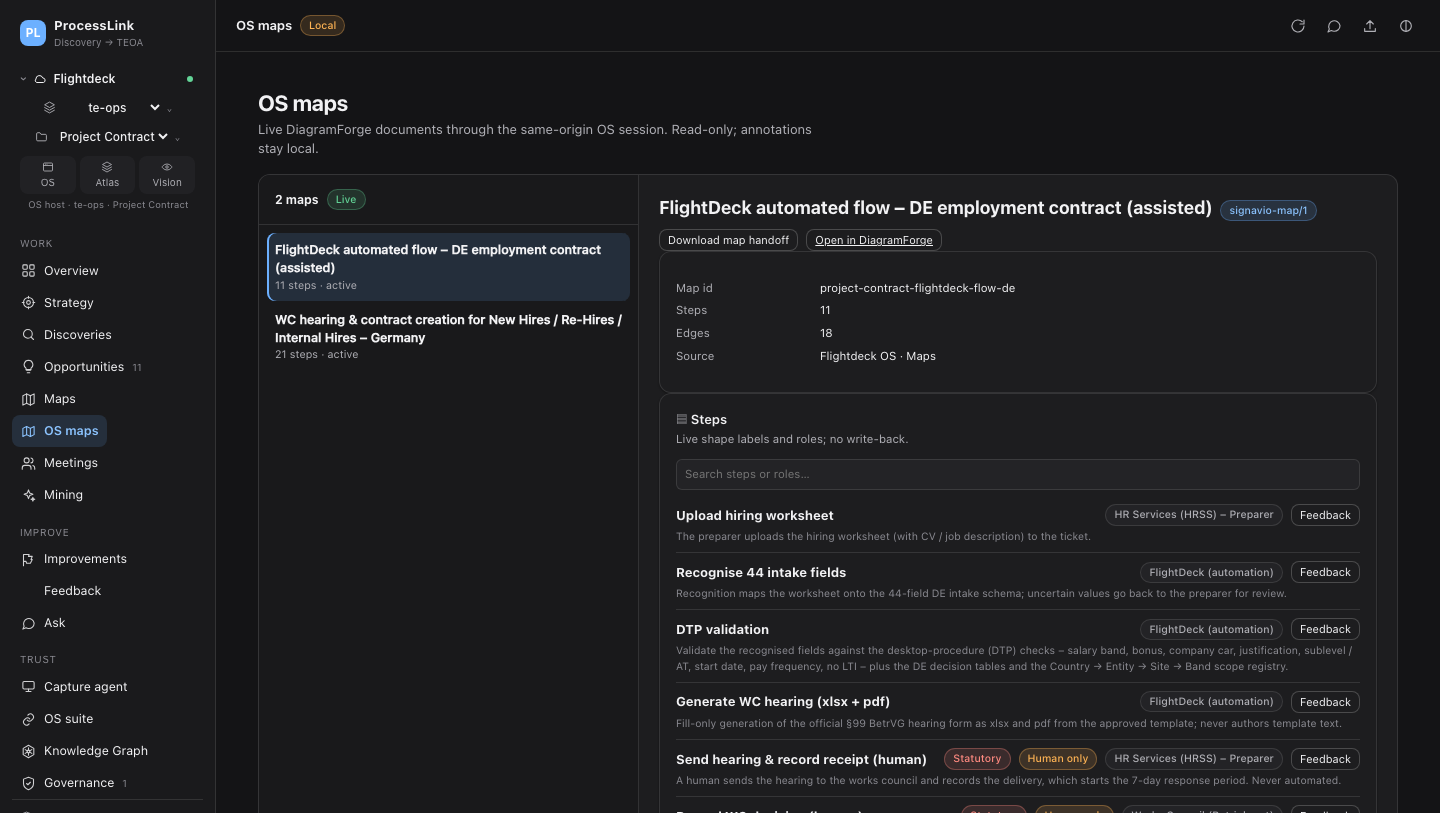
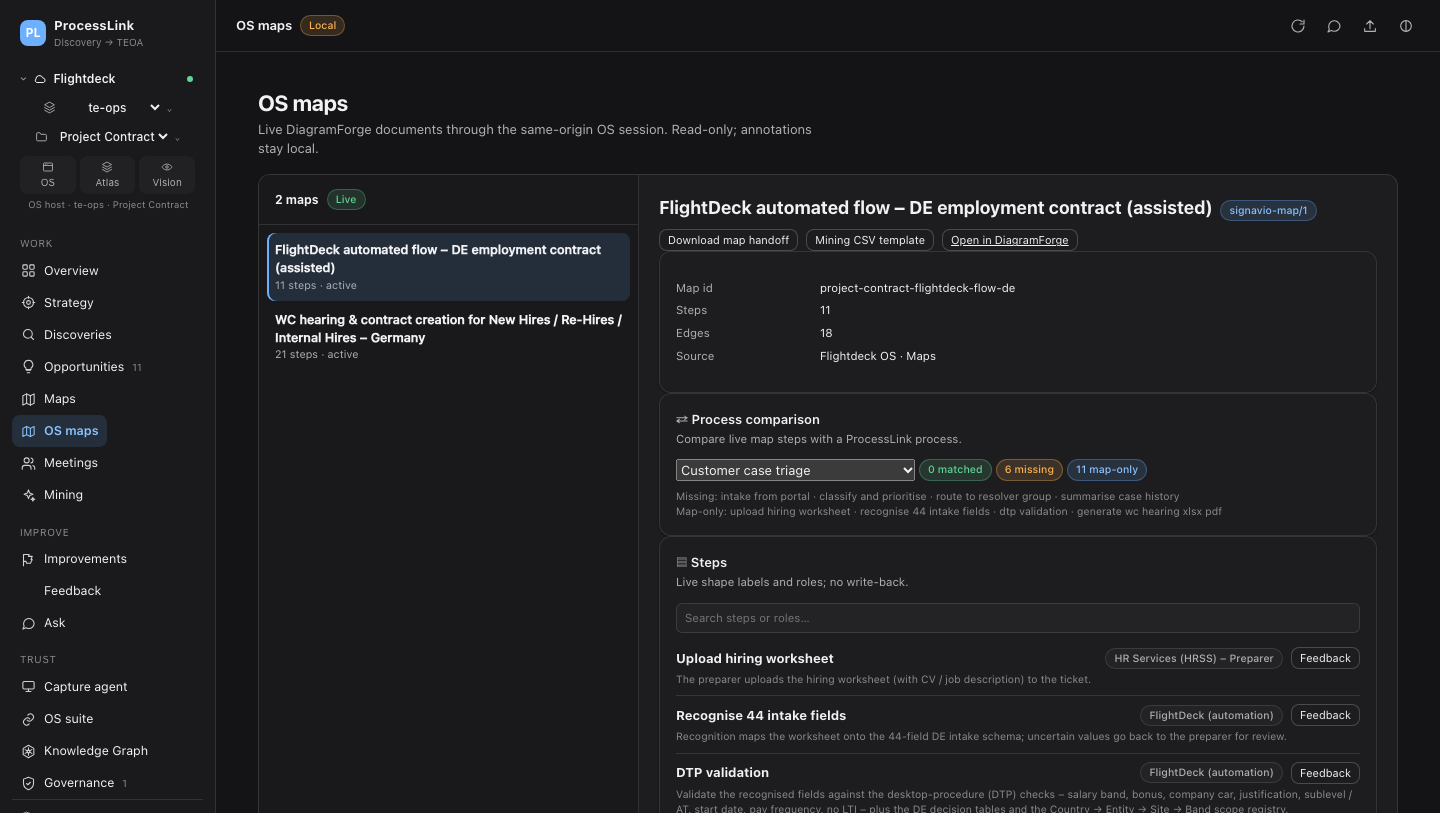
Add map/process comparison, DeckForge reads and mining template

Changed region(s): [[0.4688, 0.492, 0.9375, 1.0], [0.5625, 0.2768, 0.75, 0.3075], [0.9062, 0.6765, 0.9375, 0.7073]]

diff --git a/web/src/pages/OsMaps.tsx b/web/src/pages/OsMaps.tsx
@@ -1,5 +1,6 @@
 import { useEffect, useState } from 'react'
 import { Card, Chip, Empty, KV, PageHead } from '../components/ui'
+import { useApp } from '../App'
 import { FeedbackPanel } from '../components/FeedbackPanel'
 import { FeedbackButton } from '../components/FeedbackButton'
 import { osGet, type LiveMap } from '../domain/osBridge'
@@ -8,6 +9,8 @@ interface MapNode { id: string; type: string; label: string; data?: { role?: str
 interface MapDetail { schema: string; id: string; label: string; nodes: MapNode[]; edges: Array<{ id: string; source: string; target: string }> }
 
 export default function OsMaps() {
+  const { processes } = useApp()
+  const [processId, setProcessId] = useState('')
   const [maps, setMaps] = useState<LiveMap[] | null>(null)
   const [selected, setSelected] = useState('')
   const [detail, setDetail] = useState<MapDetail | null>(null)
@@ -29,6 +32,24 @@ export default function OsMaps() {
     })
   }, [selected])
 
+  const process = processes.find(item => item.id === processId) ?? processes[0]
+  const normalization = (value: string) => value.toLowerCase().replace(/[^a-z0-9]+/g, ' ').trim()
+  const mapLabels = (detail?.nodes.filter(node => node.type === 'step') ?? []).map(node => normalization(node.label))
+  const processLabels = (process?.steps ?? []).map(step => normalization(step.name))
+  const matched = processLabels.filter(label => mapLabels.some(mapLabel => mapLabel === label || mapLabel.includes(label) || label.includes(mapLabel)))
+  const missing = processLabels.filter(label => !matched.includes(label))
+  const extra = mapLabels.filter(label => !processLabels.some(processLabel => processLabel === label || processLabel.includes(label) || label.includes(processLabel)))
+  const downloadMiningCSV = () => {
+    if (!detail) return
+    const rows = [['case_id', 'activity', 'timestamp', 'resource', 'application']]
+    const base = Date.now()
+    detail.nodes.filter(node => node.type === 'step').forEach((node, index) => {
+      rows.push([`map-${detail.id}`, node.label, new Date(base + index * 60000).toISOString(), node.data?.role ?? '', 'DiagramForge'])
+    })
+    const blob = new Blob([rows.map(row => row.map(value => `"${String(value).replaceAll('"', '""')}"`).join(',')).join('\n')], { type: 'text/csv' })
+    const url = URL.createObjectURL(blob); const link = document.createElement('a')
+    link.href = url; link.download = `${detail.id}-mining-template.csv`; link.click(); URL.revokeObjectURL(url)
+  }
   const steps = (detail?.nodes.filter(node => node.type === 'step') ?? []).filter(step => {
     const value = search.toLowerCase()
     return !value || step.label.toLowerCase().includes(value) || (step.data?.role ?? '').toLowerCase().includes(value)
@@ -67,6 +88,7 @@ export default function OsMaps() {
                   <Chip tone="blue">{detail.schema}</Chip>
                   <div className="spacer" />
                   <button className="btn small" onClick={downloadMap}>Download map handoff</button>
+                  <button className="btn small" onClick={downloadMiningCSV}>Mining CSV template</button>
                   <a className="btn small" href={`/console/apps/maps?map=${encodeURIComponent(detail.id)}`} target="_blank" rel="noreferrer">Open in DiagramForge</a>
                 </div>
                 <Card>
@@ -77,6 +99,19 @@ export default function OsMaps() {
                     ['Source', 'Flightdeck OS · Maps'],
                   ]} />
                 </Card>
+                <Card title="Process comparison" subtitle="Compare live map steps with a ProcessLink process." glyph="⇄">
+                  <div className="row-meta" style={{ marginBottom: 8 }}>
+                    <select value={processId || process?.id || ''} onChange={e => setProcessId(e.target.value)} aria-label="Process">
+                      {processes.map(item => <option key={item.id} value={item.id}>{item.name}</option>)}
+                    </select>
+                    <Chip tone="green">{matched.length} matched</Chip>
+                    <Chip tone="orange">{missing.length} missing</Chip>
+                    <Chip tone="blue">{extra.length} map-only</Chip>
+                  </div>
+                  {missing.length > 0 && <div className="tiny">Missing: {missing.slice(0, 4).join(' · ')}</div>}
+                  {extra.length > 0 && <div className="tiny">Map-only: {extra.slice(0, 4).join(' · ')}</div>}
+                </Card>
+
                 <Card title="Steps" subtitle="Live shape labels and roles; no write-back." glyph="▤">
                   <input className="osmap-search" placeholder="Search steps or roles…" value={search} onChange={e => setSearch(e.target.value)} />
                   {steps.map(step => (

diff --git a/web/src/pages/Suite.tsx b/web/src/pages/Suite.tsx
@@ -2,7 +2,7 @@ import { useEffect, useState } from 'react'
 import { useApp } from '../App'
 import { Card, Chip, Note } from '../components/ui'
 import { OsActivity } from '../components/OsActivity'
-import { osGet, type LiveMap, type LiveProjects, type LiveVision, type VisionRoadmap } from '../domain/osBridge'
+import { osGet, type DeckForgeDecks, type LiveMap, type LiveProjects, type LiveVision, type VisionRoadmap } from '../domain/osBridge'
 
 const OS = (import.meta.env.VITE_FLIGHTDECK_URL as string | undefined) || 'http://127.0.0.1:4173'
 const ATLAS = (import.meta.env.VITE_ATLAS_URL as string | undefined) || 'http://localhost:5173'
@@ -25,12 +25,14 @@ export default function Suite() {
   const [liveVision, setLiveVision] = useState<LiveVision | null>(null)
   const [liveProjects, setLiveProjects] = useState<LiveProjects | null>(null)
   const [roadmap, setRoadmap] = useState<VisionRoadmap | null>(null)
+  const [decks, setDecks] = useState<DeckForgeDecks | null>(null)
   useEffect(() => {
     void Promise.all([
       osGet<LiveMap[]>('/api/apps/maps/maps'), osGet<LiveVision>('/api/vision/bootstrap'),
       osGet<LiveProjects>('/api/projects'), osGet<VisionRoadmap>('/api/vision/roadmap'),
-    ]).then(([maps, vision, projects, road]) => {
-      setLiveMaps(maps); setLiveVision(vision); setLiveProjects(projects); setRoadmap(road)
+      osGet<DeckForgeDecks>('/deckforge/api/apps/presentation-studio/decks'),
+    ]).then(([maps, vision, projects, road, deckData]) => {
+      setLiveMaps(maps); setLiveVision(vision); setLiveProjects(projects); setRoadmap(road); setDecks(deckData)
     })
   }, [])
   const check = async () => {
@@ -40,7 +42,7 @@ export default function Suite() {
       if (!response.ok) throw new Error(`GitHub HTTP ${response.status}`)
       const data = await response.json() as { tag_name: string; html_url: string }
       const latest = data.tag_name.replace(/^v/i, '')
-      const current = '0.1.24'
+      const current = '0.1.25'
       const newer = latest.localeCompare(current, undefined, { numeric: true }) > 0
       setUpdate({ status: newer ? 'available' : 'current', latest, url: data.html_url })
     } catch (error) {
@@ -103,6 +105,15 @@ export default function Suite() {
           ))}
           {liveProjects && <a className="btn small" href={ATLAS} target="_blank" rel="noreferrer">Open Atlas projects</a>}
         </Card>
+        <Card title="DeckForge decks" subtitle="Live Presentation Studio decks from the local app." glyph="▤">
+          <div className="row-meta"><Chip tone={decks ? 'green' : undefined}>{decks ? `${decks.items.length} decks` : 'Unavailable'}</Chip></div>
+          {decks?.items.slice(0, 4).map(deck => (
+            <div className="row-meta" key={deck.deckId} style={{ justifyContent: 'space-between', padding: '3px 0' }}>
+              <span>{deck.title}</span><span className="tiny">rev {deck.revision}</span>
+            </div>
+          ))}
+          <a className="btn small" href="http://127.0.0.1:4179/" target="_blank" rel="noreferrer">Open DeckForge</a>
+        </Card>
         <Card title="Vision roadmap" subtitle="Goals and roadmap rows from the OS Vision projection." glyph="◇">
           <div className="row-meta">
             <Chip tone={roadmap ? 'purple' : undefined}>{roadmap ? `${roadmap.records.length} items` : 'Unavailable'}</Chip>
@@ -121,7 +132,7 @@ export default function Suite() {
 
       <Card title="ProcessLink updates" subtitle="Reads the public GitHub release feed; never installs silently." glyph="↓">
         <div className="row-meta">
-          <Chip>Installed 0.1.24</Chip>
+          <Chip>Installed 0.1.25</Chip>
           {update.latest && <Chip tone="blue">Latest {update.latest}</Chip>}
           {update.status === 'current' && <Chip tone="green">Up to date</Chip>}
           {update.status === 'available' && <Chip tone="orange">Update available</Chip>}

diff --git a/web/src/components/OsActivity.tsx b/web/src/components/OsActivity.tsx
@@ -6,6 +6,7 @@ interface Activity { text: string; at: string }
 export function OsActivity() {
   const [items, setItems] = useState<Activity[]>([])
   const [status, setStatus] = useState<'connecting' | 'live' | 'closed'>('connecting')
+  const [filter, setFilter] = useState('')
 
   useEffect(() => {
     let source: EventSource | null = null
@@ -36,7 +37,8 @@ export function OsActivity() {
         </Chip>
         <span className="tiny">Read-only event stream</span>
       </div>
-      {items.length === 0 ? <p className="subtle">Waiting for the next OS event.</p> : items.map((item, index) => (
+      <input className="os-activity-filter" placeholder="Filter events…" value={filter} onChange={e => setFilter(e.target.value)} />
+      {items.filter(item => !filter || item.text.toLowerCase().includes(filter.toLowerCase())).length === 0 ? <p className="subtle">Waiting for the next OS event.</p> : items.filter(item => !filter || item.text.toLowerCase().includes(filter.toLowerCase())).map((item, index) => (
         <div className="os-activity-row" key={`${item.at}-${index}`}>
           <span>{item.text}</span><span className="tiny">{new Date(item.at).toLocaleTimeString('en-GB')}</span>
         </div>

diff --git a/web/src/styles.css b/web/src/styles.css
@@ -679,3 +679,4 @@ table.ledger td.num, table.ledger th.num { text-align: right; font-variant-numer
 .osmap-search { width: 100%; border: 1px solid var(--border); border-radius: 6px; background: var(--panel-2); color: var(--text); padding: 6px 8px; margin-bottom: 6px; font-size: 11.5px; }
 .os-activity-row { display: flex; justify-content: space-between; gap: 10px; border-bottom: 1px solid var(--border); padding: 5px 0; font-size: 11.5px; }
 .os-activity-row:last-child { border-bottom: 0; }
+.os-activity-filter { width: 100%; border: 1px solid var(--border); border-radius: 6px; background: var(--panel-2); color: var(--text); padding: 5px 7px; margin: 6px 0; font-size: 11px; }

diff --git a/web/src/domain/osBridge.ts b/web/src/domain/osBridge.ts
@@ -31,3 +31,7 @@ export interface LiveProjects {
 export interface VisionRoadmap {
   records: Array<{ id: string; body?: { title?: string; stage?: string; status?: string } }>
 }
+
+export interface DeckForgeDecks {
+  items: Array<{ deckId: string; title: string; revision: number; updatedAt: string }>
+}

diff --git a/docs/RELEASING.md b/docs/RELEASING.md
@@ -11,7 +11,7 @@ A GitHub Release carries both desktop installers:
 
 The workflow is [`.github/workflows/release.yml`](../.github/workflows/release.yml).
 
-The current release, [v0.1.24](https://github.com/pallefar/ProcessLink/releases/tag/v0.1.24),
+The current release, [v0.1.25](https://github.com/pallefar/ProcessLink/releases/tag/v0.1.25),
 was published with the macOS DMG and a locally cross-built Windows NSIS
 installer because GitHub Actions is currently locked on the account with a
 billing error. The workflow is ready to add the MSI and a CI-built NSIS
@@ -23,8 +23,8 @@ installer once Actions is available.
 git remote add origin git@github.com:<owner>/<repo>.git   # once
 git push -u origin main
 
-git tag v0.1.24
-git push origin v0.1.24
+git tag v0.1.25
+git push origin v0.1.25
 ```
 
 The tag starts the workflow. It builds macOS and Windows in parallel, mounts
@@ -70,12 +70,12 @@ certificate to the Windows runner before calling the build signed.
 
 ```bash
 # macOS universal DMG (ad-hoc unless SIGN_IDENTITY is set)
-macos/ProcessLink/tools/package.sh --version 0.1.24
+macos/ProcessLink/tools/package.sh --version 0.1.25
 
 # macOS notarized
 SIGN_IDENTITY="Developer ID Application: …" \
 APPLE_ID=… APPLE_TEAM_ID=… APPLE_APP_SPECIFIC_PASSWORD=… \
-macos/ProcessLink/tools/package.sh --version 0.1.24 --notarize
+macos/ProcessLink/tools/package.sh --version 0.1.25 --notarize
 
 # Windows, on a Windows host
 npm ci --prefix web

diff --git a/README.md b/README.md
@@ -253,12 +253,12 @@ app and in [`docs/PHASE-0-DISCOVERY.md`](docs/PHASE-0-DISCOVERY.md).
 Tag a version and GitHub Actions builds both desktop installers:
 
 ```bash
-git tag v0.1.24 && git push origin v0.1.24
+git tag v0.1.25 && git push origin v0.1.25
 ```
 
 The release contains a universal macOS DMG (`arm64` + `x86_64`), a Windows
 NSIS setup (and an MSI from the Windows CI job), and `SHA256SUMS.txt`.
-[Download v0.1.24](https://github.com/pallefar/ProcessLink/releases/tag/v0.1.24).
+[Download v0.1.25](https://github.com/pallefar/ProcessLink/releases/tag/v0.1.25).
 Local packaging, signing and the current Actions billing note are in
 [`docs/RELEASING.md`](docs/RELEASING.md).
 

diff --git a/docs/OS-DOCKER.md b/docs/OS-DOCKER.md
@@ -63,3 +63,10 @@ access control must protect the ProcessLink origin.
 Set `SUBAPP_ADVANTAGE_ENABLED=true`, remove `processlink` from
 `SUBAPPS_DEFAULT_ON`, rebuild/restart. The Advantage manifest, routes and data
 were not removed.
+
+
+## DeckForge read proxy
+
+`server/routes/deckforgeProxy.ts` exposes authenticated `/deckforge/*` reads to
+the local Presentation Studio at `DECKFORGE_URL` (default
+`http://host.docker.internal:4179`). The OS suite uses it for the live deck list.
